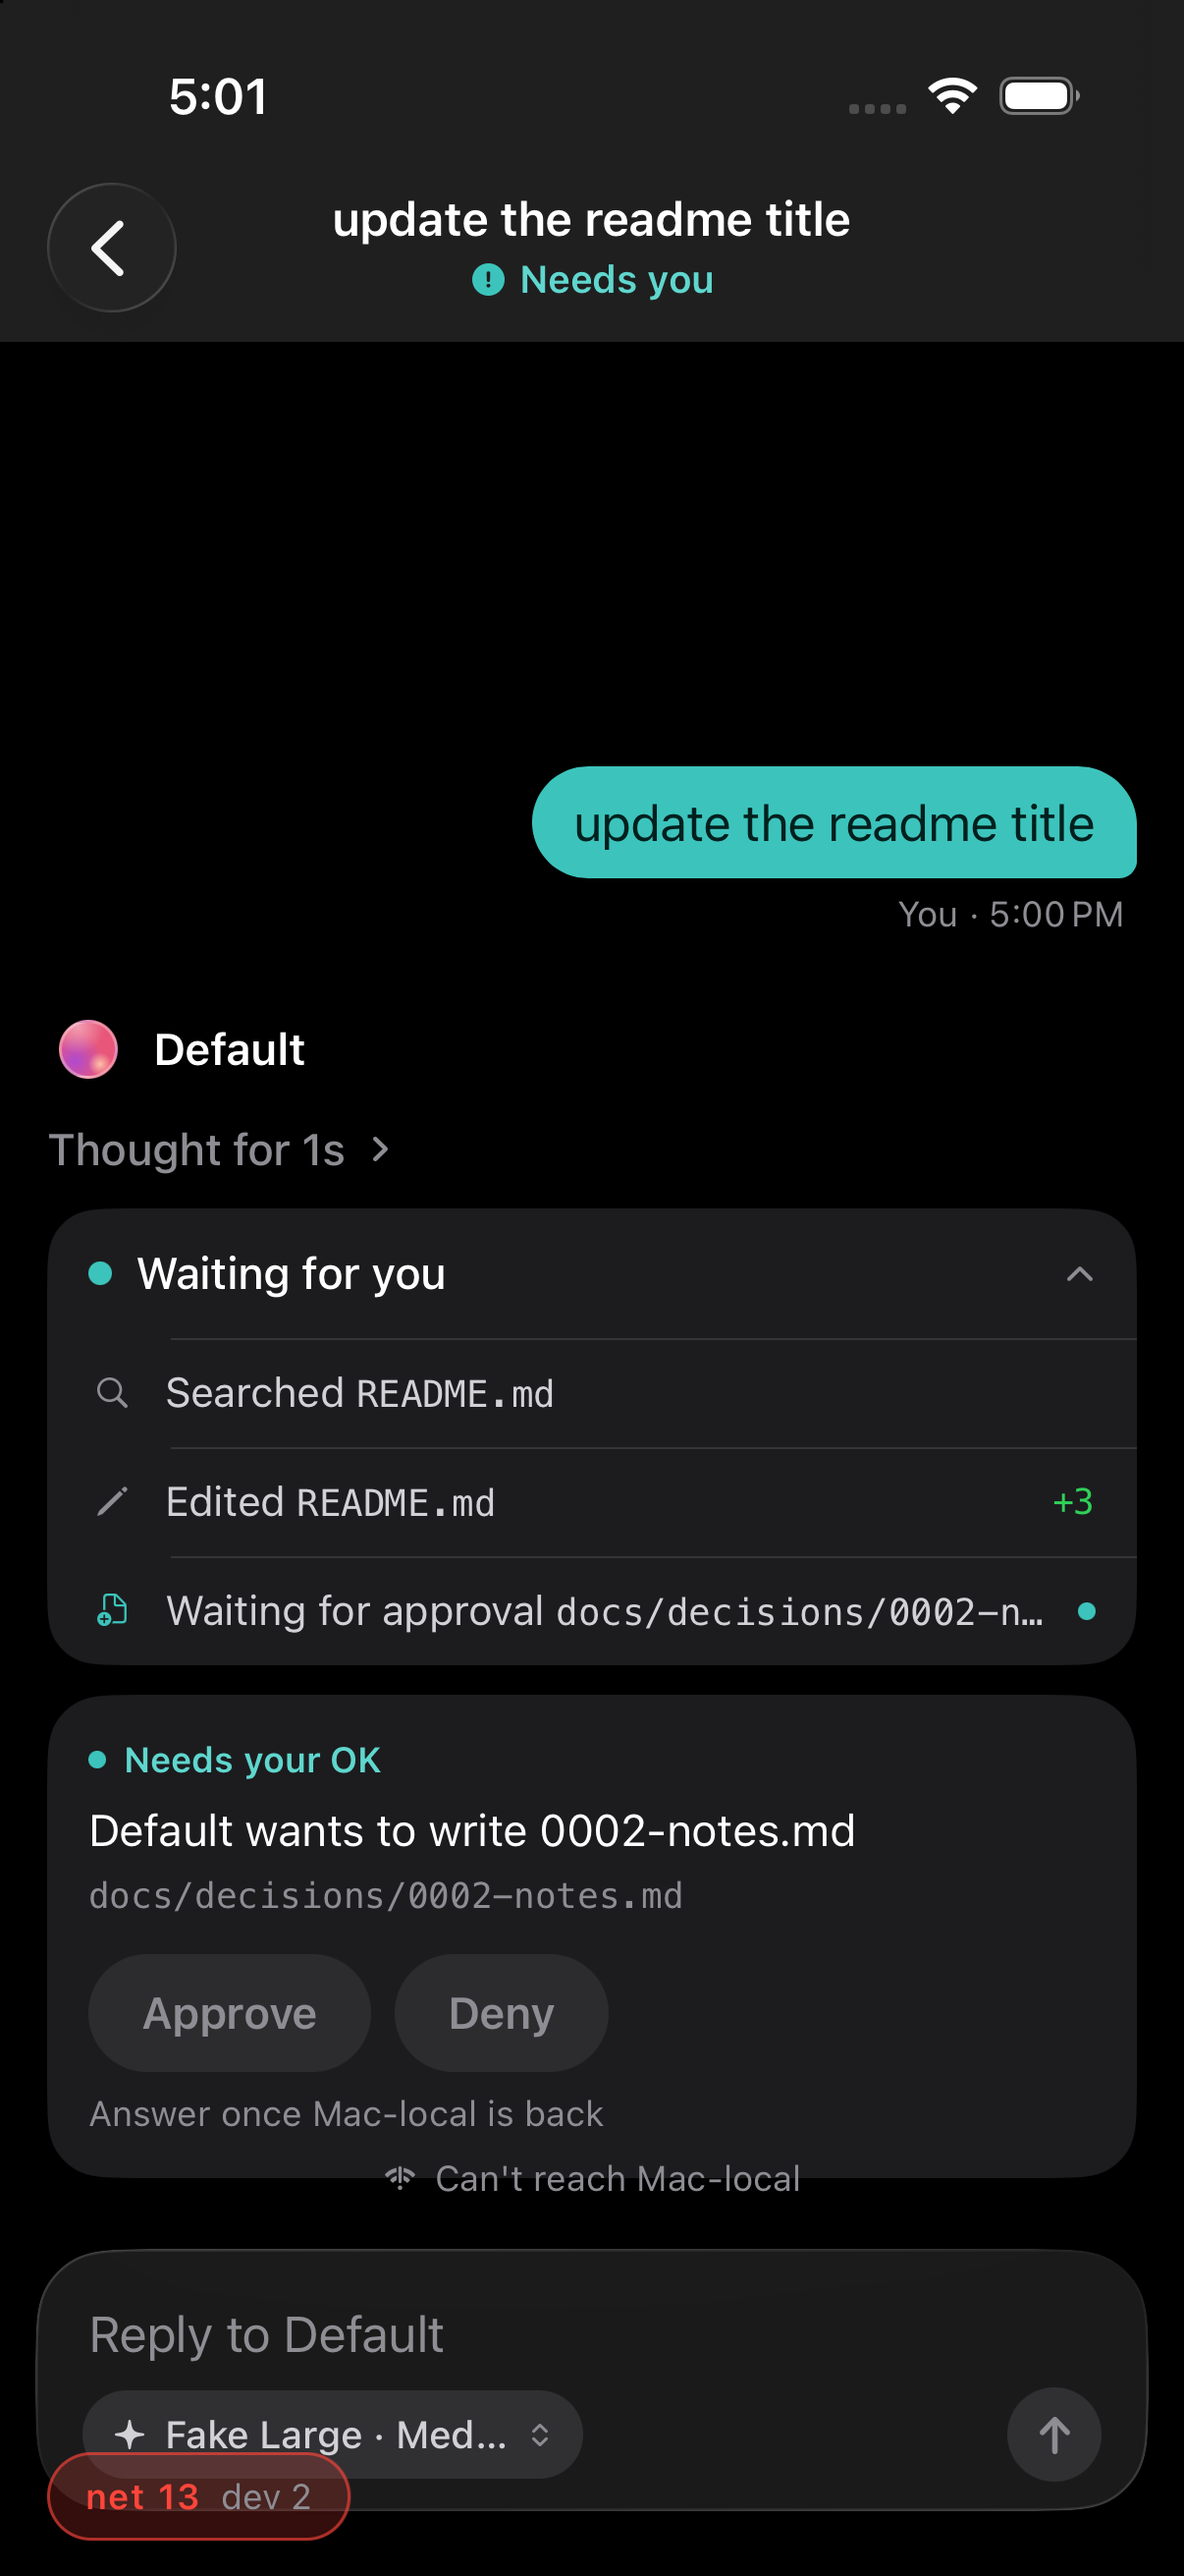
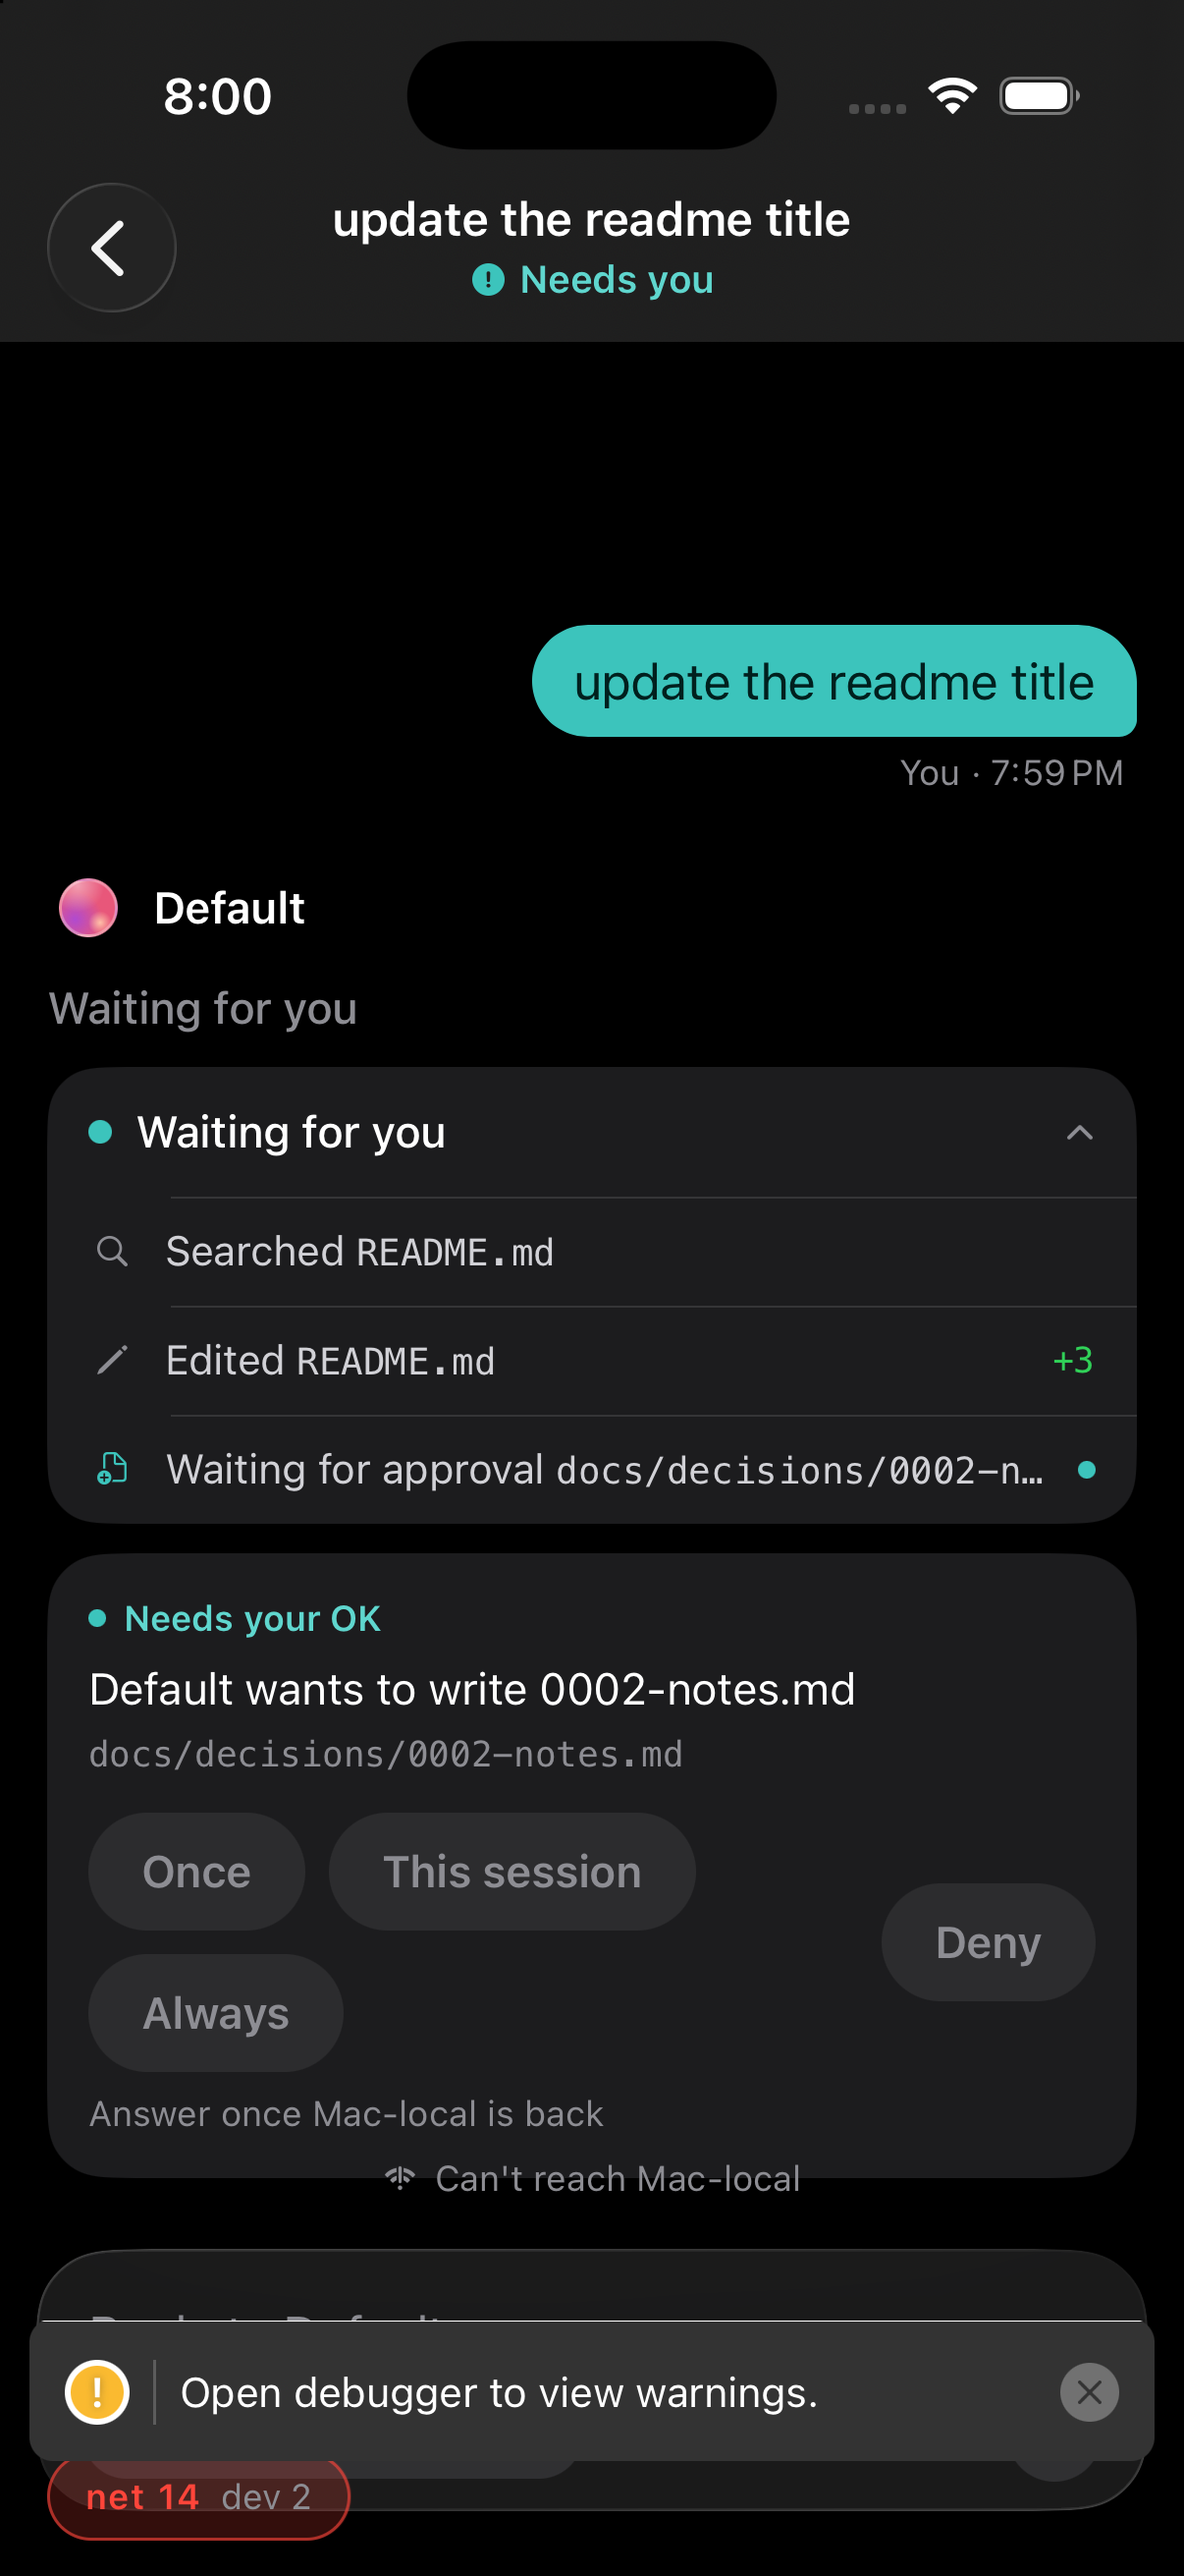
Phone: offline asks render disabled + last-known card reads human (#657)
* Phone: offline asks render disabled + last-known card reads human (Closes #652)

* Phone #652: red — describeAsk wants-to-edit/write + no raw JSON

* Phone #652: describeAsk — file tools read wants-to-edit/write, shell keeps $ box, unknown args behind tap

* Phone #652: DM needs-you row uses the same human ask line

* Phone #652: re-shoot ac1-ask-card + ac2-activity with human ask lines

* Phone #652: biome format on approval-copy tests

* Phone #652: Deny keeps its own weight on the ask card

Grants wrap in a left zone while Deny pins to the trailing edge with the
new destructive Pill variant (muted fill, red label) — it can never land
alone on a wrapped second row, in the thread card and the approvals
sheet alike. Re-shot ac1-ask-card L+D (last-known) and added the live
pair showing the destructive styling.

---------

diff --git a/packages/ui-native/src/employees/approvals-sheet.tsx b/packages/ui-native/src/employees/approvals-sheet.tsx
@@ -162,51 +162,70 @@ export function ApprovalsSheet({
                 </View>
               </View>
             )}
-            <View className="mt-3 flex-row flex-wrap items-center gap-2">
-              {/* #591: a last-known row offers no dead pills — the tap
-                  couldn't reach the Mac anyway. Open still works: it
-                  opens the cached thread. */}
-              {/* #595: a plan's primary is **Review** — it opens the plan
-                  in its thread; nothing approves a plan sight-unseen.
-                  Command approvals keep the one-tap Approve (AC-2). */}
-              {!a.lastKnown && a.primary === "review" && (
-                <Pill
-                  label="Review"
-                  onPress={() => (onReview ?? onOpen)(a.id)}
-                />
-              )}
-              {/* #601: an approval row offers the ask's own options in its
-                  order (Once / This session / Always / Deny) when onGrant
-                  is passed; the plain Approve/Deny pair stays the
-                  fallback. */}
+            {/* #601: the row splits two zones — the grants wrap in the
+                left zone (Review / Approve / the ask's non-deny options)
+                while Deny keeps its own weight pinned to the trailing
+                edge ahead of Open (muted fill, destructive label), so a
+                wrap never orphans it onto a second row. */}
+            <View className="mt-3 flex-row items-center gap-2">
+              <View className="flex-1 flex-row flex-wrap items-center gap-2">
+                {/* #591: a last-known row offers no dead pills — the tap
+                    couldn't reach the Mac anyway. Open still works: it
+                    opens the cached thread. */}
+                {/* #595: a plan's primary is **Review** — it opens the
+                    plan in its thread; nothing approves a plan
+                    sight-unseen. Command approvals keep the one-tap
+                    Approve (AC-2). */}
+                {!a.lastKnown && a.primary === "review" && (
+                  <Pill
+                    label="Review"
+                    onPress={() => (onReview ?? onOpen)(a.id)}
+                  />
+                )}
+                {/* #601: an approval row offers the ask's own options in
+                    its order (Once / This session / Always) when onGrant
+                    is passed — Deny splits out to the trailing edge; the
+                    plain Approve/Deny pair stays the fallback. */}
+                {!a.lastKnown &&
+                  onGrant &&
+                  a.kind === "approval" &&
+                  grantPills(a)
+                    .filter((o) => o !== "deny")
+                    .map((opt, i) => (
+                      <Pill
+                        key={opt}
+                        label={GRANT_LABEL[opt]}
+                        variant={i === 0 ? undefined : "soft"}
+                        onPress={() => onGrant(a.id, opt)}
+                      />
+                    ))}
+                {!a.lastKnown &&
+                  !onGrant &&
+                  onApprove &&
+                  (a.primary ?? "approve") === "approve" &&
+                  a.kind !== "question" && (
+                    <Pill label="Approve" onPress={() => onApprove(a.id)} />
+                  )}
+              </View>
               {!a.lastKnown &&
                 onGrant &&
                 a.kind === "approval" &&
-                grantPills(a).map((opt, i) => (
+                grantPills(a).includes("deny") && (
                   <Pill
-                    key={opt}
-                    label={GRANT_LABEL[opt]}
-                    variant={i === 0 && opt !== "deny" ? undefined : "soft"}
-                    onPress={() => onGrant(a.id, opt)}
+                    label={GRANT_LABEL.deny}
+                    variant="destructive"
+                    onPress={() => onGrant(a.id, "deny")}
                   />
-                ))}
-              {!a.lastKnown &&
-                !onGrant &&
-                onApprove &&
-                (a.primary ?? "approve") === "approve" &&
-                a.kind !== "question" && (
-                  <Pill label="Approve" onPress={() => onApprove(a.id)} />
                 )}
               {!a.lastKnown &&
                 !(onGrant && a.kind === "approval") &&
                 onDeny && (
                   <Pill
                     label={isAnswerableQuestion(a) ? "Skip" : "Deny"}
-                    variant="soft"
+                    variant={isAnswerableQuestion(a) ? "soft" : "destructive"}
                     onPress={() => onDeny(a.id)}
                   />
                 )}
-              <View className="flex-1" />
               {/* On a plan card Review IS the open — no second route pill. */}
               {a.primary !== "review" && (
                 <Pill

diff --git a/packages/ui-native/src/employees/agent-turn.tsx b/packages/ui-native/src/employees/agent-turn.tsx
@@ -408,6 +408,11 @@ function ApprovalCard({
   const d = describeAsk(a.command);
   const isFileAsk = !!d?.detail && !d.detail.startsWith("{");
   const [showArgs, setShowArgs] = useState(false);
+  /* #601: Deny splits out of the option list — the grants wrap in the
+     left zone while Deny keeps its own weight at the trailing edge, so
+     a wrap never orphans it onto a second row. */
+  const grants = grantPills(a).filter((o) => o !== "deny");
+  const hasDeny = grantPills(a).includes("deny");
   return (
     // Its own responder, so a tap on the card never opens the row under it.
     <View onStartShouldSetResponder={() => true}>
@@ -467,37 +472,48 @@ function ApprovalCard({
             </View>
           </View>
         )}
-        <View className="mt-3 flex-row flex-wrap items-center gap-2">
-          {/* #601: the ask's own options, its own order — the first grant
-              is the prominent pill like the Mac's first action, Deny reads
-              soft. A pre-options row (prototype) falls back to Approve +
-              Deny via grantPills. */}
+        {/* #601: the ask's own options, its own order — the grants wrap
+            in the left zone with the first prominent like the Mac's
+            first action, while Deny keeps its own weight pinned to the
+            trailing edge (muted fill, destructive label) so a wrap never
+            orphans it onto a second row. A pre-options row (prototype)
+            falls back to Approve + Deny via grantPills. */}
+        <View className="mt-3 flex-row items-center gap-2">
+          <View className="flex-1 flex-row flex-wrap items-center gap-2">
+            {a.kind === "approval" && onGrant
+              ? grants.map((opt, i) => (
+                  <Pill
+                    key={opt}
+                    label={GRANT_LABEL[opt]}
+                    variant={i === 0 ? undefined : "soft"}
+                    disabled={stale}
+                    onPress={() => onGrant(a.id, opt)}
+                  />
+                ))
+              : a.kind !== "question" && (
+                  <Pill
+                    label="Approve"
+                    disabled={stale}
+                    onPress={() => onApprove(a.id)}
+                  />
+                )}
+          </View>
           {a.kind === "approval" && onGrant ? (
-            grantPills(a).map((opt, i) => (
+            hasDeny && (
               <Pill
-                key={opt}
-                label={GRANT_LABEL[opt]}
-                variant={i === 0 && opt !== "deny" ? undefined : "soft"}
+                label={GRANT_LABEL.deny}
+                variant="destructive"
                 disabled={stale}
-                onPress={() => onGrant(a.id, opt)}
+                onPress={() => onGrant(a.id, "deny")}
               />
-            ))
+            )
           ) : (
-            <>
-              {a.kind !== "question" && (
-                <Pill
-                  label="Approve"
-                  disabled={stale}
-                  onPress={() => onApprove(a.id)}
-                />
-              )}
-              <Pill
-                label="Deny"
-                variant="soft"
-                disabled={stale}
-                onPress={() => onDeny(a.id)}
-              />
-            </>
+            <Pill
+              label="Deny"
+              variant="destructive"
+              disabled={stale}
+              onPress={() => onDeny(a.id)}
+            />
           )}
         </View>
         {stale && answerHint && (

diff --git a/packages/ui-native/src/components/bits.tsx b/packages/ui-native/src/components/bits.tsx
@@ -15,7 +15,9 @@ export function Pill({
 }: {
   label: string;
   onPress: () => void;
-  variant?: "primary" | "soft" | "ghost";
+  /** "destructive" is the iOS pair of a muted fill with a destructive
+      label — the ask card's Deny next to the grant pills. */
+  variant?: "primary" | "soft" | "ghost" | "destructive";
   size?: "sm" | "md";
   /** #652: renders the pill visibly inert — muted fill + muted label,
       no press (e.g. an ask that can't be answered while the Mac is
@@ -26,9 +28,9 @@ export function Pill({
     ? "bg-muted"
     : variant === "primary"
       ? "bg-primary"
-      : variant === "soft"
-        ? "bg-fill"
-        : "bg-transparent";
+      : variant === "ghost"
+        ? "bg-transparent"
+        : "bg-fill";
   return (
     <Pressable
       accessibilityRole="button"
@@ -43,7 +45,13 @@ export function Pill({
         size="sm"
         weight="semibold"
         tone={
-          disabled ? "muted" : variant === "primary" ? "inverse" : "default"
+          disabled
+            ? "muted"
+            : variant === "primary"
+              ? "inverse"
+              : variant === "destructive"
+                ? "destructive"
+                : "default"
         }
       >
         {label}
